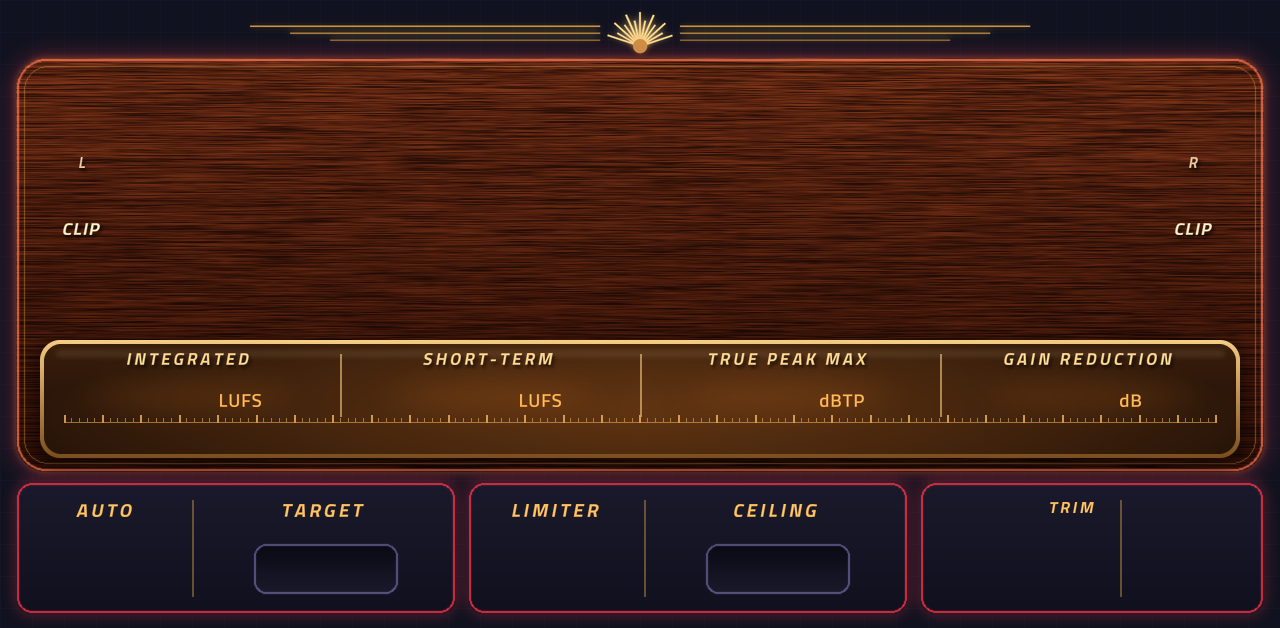
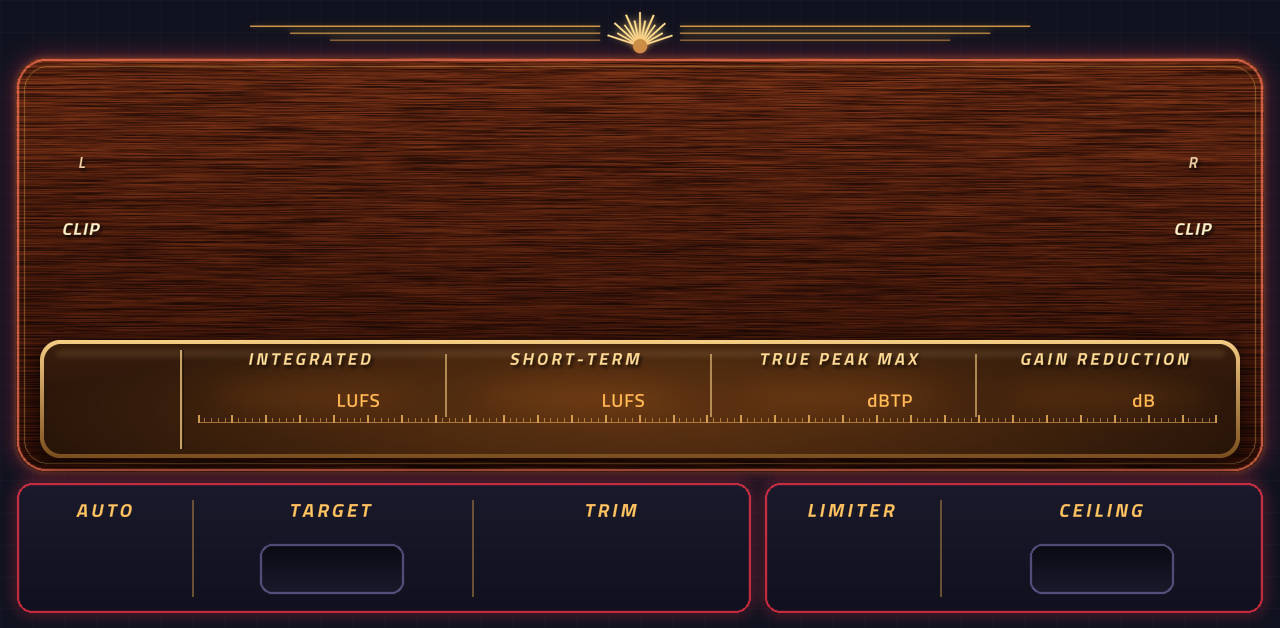
LUFS tab: CLEAR + RUN/HOLD in the readout strip; GAIN card (AUTO, TARGET, TRIM) and OUTPUT card (LIMITER, CEILING)

diff --git a/scripts/make_skin_art.py b/scripts/make_skin_art.py
@@ -255,11 +255,14 @@ def tuning_strip(bg):
     bg.alpha_composite(lamps.filter(ImageFilter.GaussianBlur(18)))
     rules = Image.new('RGBA', bg.size, (0, 0, 0, 0))
     rd = ImageDraw.Draw(rules)
-    for i in range(1, 4):                                   # gold dividers
-        dx = x + w * i / 4.0
+    for i in range(1, 4):                                   # gold dividers between the readouts
+        dx = L.READOUT_X0 + L.READOUT_W * i / 4.0
         rd.line([(dx, y + 14), (dx, y + 76)], fill=L.BRASS_LIGHT + (150,), width=2)
+    # the measurement controls (CLEAR, RUN/HOLD) get their own bay at the left end
+    rd.line([(L.READOUT_X0, y + 10), (L.READOUT_X0, y + h - 10)], fill=L.BRASS_LIGHT + (190,), width=2)
+    rd.line([(L.READOUT_X0 + 3, y + 10), (L.READOUT_X0 + 3, y + h - 10)], fill=(20, 10, 4, 160), width=1)
     # decorative tuning scale
-    t0, t1, ty = x + 24, x + w - 24, L.STRIP_TICKS_Y
+    t0, t1, ty = L.READOUT_X0 + 18, x + w - 24, L.STRIP_TICKS_Y
     rd.line([(t0, ty), (t1, ty)], fill=(240, 170, 80, 150), width=1)
     k = 0
     xx = t0
@@ -306,22 +309,18 @@ def make_lufs_background():
         card(bg, r)
     rules = Image.new('RGBA', bg.size, (0, 0, 0, 0))
     rd = ImageDraw.Draw(rules)
-    for key, (left, right) in L.LUFS_TITLES.items():
+    for key, sections in L.LUFS_SECTIONS.items():
         x, y, w, h = L.LUFS_CARDS[key]
-        rd.line([(x + L.LUFS_SPLIT, y + 18), (x + L.LUFS_SPLIT, y + h - 18)], fill=L.BRASS + (120,), width=2)
-        for title, (sx0, sx1) in ((left, (x, x + L.LUFS_SPLIT)), (right, (x + L.LUFS_SPLIT, x + w))):
+        for i, (title, s0, s1) in enumerate(sections):
+            if i:
+                rd.line([(x + s0, y + 18), (x + s0, y + h - 18)], fill=L.BRASS + (120,), width=2)
             t = text_image(title, 19, L.AMBER_TEXT + (255,), tracking=0.16)
-            bg.alpha_composite(t, (int((sx0 + sx1) / 2.0 - t.size[0] / 2), y + 22))
+            bg.alpha_composite(t, (int(x + (s0 + s1) / 2.0 - t.size[0] / 2), y + 22))
         _, pill, _ = L.lufs_stepper(key)                      # inset value window between the arrows
         px, py, pw, ph = pill
         paste(bg, vgrad(pw, ph, (10, 10, 20), (26, 26, 44)), rr_mask(pw, ph, (0, 0, pw, ph), 12), (px, py))
         bg.alpha_composite(glow_rect(bg.size, pill, 12, (110, 104, 160), 0.5, 2, 200))
-    tx, ty, tw, th = L.LUFS_CARDS['trim']
-    rd.line([(L.CLEAR_BUTTON[0] - 8, ty + 18), (L.CLEAR_BUTTON[0] - 8, ty + th - 18)], fill=L.BRASS + (120,), width=2)
     bg.alpha_composite(rules)
-    vx, vy, vw, vh = L.LUFS_TRIM_VALUE
-    t = text_image('TRIM', 16, L.AMBER_TEXT + (255,), tracking=0.16)
-    bg.alpha_composite(t, (int(vx + vw / 2 - t.size[0] / 2), vy - 22))
     return bg
 
 
@@ -659,11 +658,11 @@ def make_controls():
         pair('pal_%d' % i, L.PALETTE_BUTTONS[i], lab, 'pal:' + name, size=19)
 
     # LUFS tab: ON/OFF toggles, arrow keys (lit while pressed), CLEAR, RUN/HOLD
-    for name, card in (('lufs_auto', 'auto'), ('lufs_lim', 'limiter')):
+    for name, card in (('lufs_auto', 'gain'), ('lufs_lim', 'output')):
         _, _, w, h = L.lufs_toggle(card)
         save(button(w, h, 'ON', 'seg', True, 24), name + '_on.png')
         save(button(w, h, 'OFF', 'seg', False, 24), name + '_off.png')
-    lft, _, rgt = L.lufs_stepper('auto')
+    lft, _, rgt = L.lufs_stepper('gain')
     pair('arrow_l', lft, '<', 'arrow')
     pair('arrow_r', rgt, '>', 'arrow')
     pair('clear', L.CLEAR_BUTTON, 'CLEAR', 'clear', size=21)
@@ -893,8 +892,8 @@ def lufs_preview(lbg, faces, light_i=0, hue=0.0, out='preview-lufs.png', limiter
         g = t.filter(ImageFilter.GaussianBlur(4))
         page.alpha_composite(g, (vx + vw - t.size[0], vy + (vh - t.size[1]) // 2))
         page.alpha_composite(t, (vx + vw - t.size[0], vy + (vh - t.size[1]) // 2))
-    for rect, text, just in ((L.STATUS_RECT, 'AUTO IN RANGE', 'l'), (L.AUTO_GAIN_RECT, '+3.2 dB', 'l'),
-                             (L.MOMENTARY_RECT, 'M -12.8', 'c'), (L.ELAPSED_RECT, '02:34', 'r')):
+    for rect, text, just in ((L.STATUS_RECT, 'AUTO IN RANGE', 'r'), (L.AUTO_GAIN_RECT, '+3.2 dB', 'r'),
+                             (L.MOMENTARY_RECT, 'M -12.8', 'c'), (L.ELAPSED_RECT, '02:34', 'l')):
         t = text_image(text, 16, (246, 196, 120, 255), slant=0.0, semi=True)
         x, y, w, h = rect
         tx = x if just == 'l' else (x + (w - t.size[0]) // 2 if just == 'c' else x + w - t.size[0])
@@ -902,9 +901,9 @@ def lufs_preview(lbg, faces, light_i=0, hue=0.0, out='preview-lufs.png', limiter
     def btn(name, rect, on):
         img = Image.open(os.path.join(OUT, name + ('_on.png' if on else '_off.png')))
         page.alpha_composite(img, rect[:2])
-    btn('lufs_auto', L.lufs_toggle('auto'), True)
-    btn('lufs_lim', L.lufs_toggle('limiter'), limiter)
-    for card, val in (('auto', '-14.0 LUFS'), ('limiter', '-1.0 dBTP')):
+    btn('lufs_auto', L.lufs_toggle('gain'), True)
+    btn('lufs_lim', L.lufs_toggle('output'), limiter)
+    for card, val in (('gain', '-14.0 LUFS'), ('output', '-1.0 dBTP')):
         lft, pill, rgt = L.lufs_stepper(card)
         btn('arrow_l', lft, False)
         btn('arrow_r', rgt, False)

diff --git a/scripts/skin_layout.py b/scripts/skin_layout.py
@@ -448,35 +448,45 @@ def lufs_lamp_hit(i):
 
 
 DIAL_STRIP = (40, 340, 1200, 118)              # the tuning-dial readout strip
+# The strip's left end holds the measurement controls (CLEAR, RUN/HOLD); the readouts fill the rest.
+STRIP_CTRL_W = 140
+READOUT_X0 = DIAL_STRIP[0] + STRIP_CTRL_W
+READOUT_W = DIAL_STRIP[0] + DIAL_STRIP[2] - READOUT_X0
+CLEAR_BUTTON = (DIAL_STRIP[0] + 12, DIAL_STRIP[1] + 10, 116, 46)
+HOLD_BUTTON = (DIAL_STRIP[0] + 12, DIAL_STRIP[1] + 62, 116, 46)
 READOUT_TITLES = ['INTEGRATED', 'SHORT-TERM', 'TRUE PEAK MAX', 'GAIN REDUCTION']
 READOUT_UNITS = ['LUFS', 'LUFS', 'dBTP', 'dB']
 READOUT_PARAMS = ['Integrated', 'Short-term', 'True Peak Max', 'Gain Reduction']
 
 
 def readout_centre(i):
-    return DIAL_STRIP[0] + DIAL_STRIP[2] * (2 * i + 1) / 8.0
+    return READOUT_X0 + READOUT_W * (2 * i + 1) / 8.0
 
 
 def readout_value_rect(i):
     """Right-justified number; the unit is printed just right of it on the background."""
     cx = readout_centre(i)
-    return (int(cx - 152), DIAL_STRIP[1] + 20, 172, 66)
+    return (int(cx - 148), DIAL_STRIP[1] + 20, 160, 66)
 
 
-READOUT_UNIT_X = 30                            # unit starts this far right of the column centre
+READOUT_UNIT_X = 26                            # unit starts this far right of the column centre
 STRIP_TICKS_Y = DIAL_STRIP[1] + 82             # decorative tuning scale
-STATUS_ROW_Y = DIAL_STRIP[1] + 89              # small Labels: AUTO status + gain | momentary | elapsed
-STATUS_RECT = (DIAL_STRIP[0] + 18, STATUS_ROW_Y, 196, 28)
-AUTO_GAIN_RECT = (DIAL_STRIP[0] + 218, STATUS_ROW_Y, 120, 28)
-MOMENTARY_RECT = (DIAL_STRIP[0] + 500, STATUS_ROW_Y, 200, 28)
-ELAPSED_RECT = (DIAL_STRIP[0] + DIAL_STRIP[2] - 18 - 220, STATUS_ROW_Y, 220, 28)
+STATUS_ROW_Y = DIAL_STRIP[1] + 89              # small Labels: elapsed | momentary | AUTO status + gain
+ELAPSED_RECT = (READOUT_X0 + 16, STATUS_ROW_Y, 120, 28)
+MOMENTARY_RECT = (int(READOUT_X0 + READOUT_W / 2 - 100), STATUS_ROW_Y, 200, 28)
+AUTO_GAIN_RECT = (DIAL_STRIP[0] + DIAL_STRIP[2] - 18 - 96, STATUS_ROW_Y, 96, 28)
+STATUS_RECT = (AUTO_GAIN_RECT[0] - 250, STATUS_ROW_Y, 244, 28)
 
+# Bottom cards: GAIN (AUTO | TARGET | TRIM: everything that sets the level) and OUTPUT
+# (LIMITER | CEILING: protection after the gain). Sections are (title, x0, x1) inside the card.
 LUFS_CARDS = {                                 # x, y, w, h
-    'auto':    (16, 482, 440, 132),
-    'limiter': (468, 482, 440, 132),
-    'trim':    (920, 482, 344, 132),
+    'gain':   (16, 482, 736, 132),
+    'output': (764, 482, 500, 132),
 }
-LUFS_SPLIT = 176                               # divider inside the auto / limiter cards
+LUFS_SECTIONS = {
+    'gain':   [('AUTO', 0, 176), ('TARGET', 176, 456), ('TRIM', 456, 736)],
+    'output': [('LIMITER', 0, 176), ('CEILING', 176, 500)],
+}
 
 
 def lufs_toggle(card):
@@ -485,14 +495,13 @@ def lufs_toggle(card):
 
 
 def lufs_stepper(card):
-    """(left arrow, value pill, right arrow) rects for TARGET / CEILING."""
+    """(left arrow, value pill, right arrow) rects, centred in the card's second section."""
     x, y, w, h = LUFS_CARDS[card]
-    return ((x + 190, y + 62, 44, 50), (x + 238, y + 62, 144, 50), (x + 386, y + 62, 44, 50))
+    _, s0, s1 = LUFS_SECTIONS[card][1]
+    left = int(x + (s0 + s1) / 2.0 - 120)
+    return ((left, y + 62, 44, 50), (left + 48, y + 62, 144, 50), (left + 196, y + 62, 44, 50))
 
 
-LUFS_TITLES = {'auto': ('AUTO', 'TARGET'), 'limiter': ('LIMITER', 'CEILING')}
-_tx, _ty = LUFS_CARDS['trim'][0], LUFS_CARDS['trim'][1]
-LUFS_KNOB = (_tx + 20, _ty + 28, KNOB_SIZE, KNOB_SIZE)
-LUFS_TRIM_VALUE = (_tx + 100, _ty + 42, 104, 48)
-CLEAR_BUTTON = (_tx + 208, _ty + 12, 124, 52)
-HOLD_BUTTON = (_tx + 208, _ty + 70, 124, 52)
+_gx, _gy = LUFS_CARDS['gain'][0], LUFS_CARDS['gain'][1]
+LUFS_KNOB = (_gx + 480, _gy + 46, KNOB_SIZE, KNOB_SIZE)
+LUFS_TRIM_VALUE = (_gx + 566, _gy + 60, 150, 48)

diff --git a/scripts/gen_skins.py b/scripts/gen_skins.py
@@ -15,7 +15,8 @@ LUFS tab:
   * the same dials at 0.8 scale (shared needle and glow strips; caption-free faces), clip lamps
   * smoked-glass tuning strip: INTEGRATED | SHORT-TERM | TRUE PEAK MAX | GAIN REDUCTION
     Labels, plus AUTO status / auto gain / momentary / elapsed
-  * AUTO + TARGET < > | LIMITER + CEILING < > | TRIM knob, CLEAR, RUN/HOLD
+    (CLEAR and RUN/HOLD sit at the strip's left end: they control the measurement)
+  * GAIN card: AUTO | TARGET < > | TRIM knob;  OUTPUT card: LIMITER | CEILING < >
 SETUP tab: CALIBRATION | CLIP LEVEL, then LIGHT (STATIC | REACT + palette | CYCLE + rate).
 The plugin is stereo only; the retired mono parameters have no widgets.
 """
@@ -182,14 +183,18 @@ def main():
     # tuning strip readouts
     for i, param in enumerate(L.READOUT_PARAMS):
         lufs.append(label('readout %s' % param.lower(), param, L.readout_value_rect(i), L.label_px(40), L.READOUT_AMBER, 'right', 'Bold'))
-    lufs.append(label('auto state', 'Auto State', L.STATUS_RECT, L.label_px(16), L.STATUS_AMBER, 'left'))
-    lufs.append(label('auto gain', 'Auto Gain', L.AUTO_GAIN_RECT, L.label_px(16), L.STATUS_AMBER, 'left'))
+    lufs.append(label('auto state', 'Auto State', L.STATUS_RECT, L.label_px(16), L.STATUS_AMBER, 'right'))
+    lufs.append(label('auto gain', 'Auto Gain', L.AUTO_GAIN_RECT, L.label_px(16), L.STATUS_AMBER, 'right'))
     lufs.append(label('momentary', 'Momentary', L.MOMENTARY_RECT, L.label_px(16), L.STATUS_AMBER, 'horizontallyCentred'))
-    lufs.append(label('elapsed', 'Elapsed', L.ELAPSED_RECT, L.label_px(16), L.STATUS_AMBER, 'right'))
+    lufs.append(label('elapsed', 'Elapsed', L.ELAPSED_RECT, L.label_px(16), L.STATUS_AMBER, 'left'))
+    # measurement controls, at the left end of the readout strip
+    lufs.append(button('clear', 'clear', 1, 1, P('Clear'), L.CLEAR_BUTTON))
+    lufs.append(button('run hold', 'hold', 1, 1, P('Measure'), L.HOLD_BUTTON))
     # controls
-    lufs.append(button('lufs auto', 'lufs_auto', 1, 1, P('LUFS Auto'), L.lufs_toggle('auto')))
-    lufs.append(button('limiter', 'lufs_lim', 1, 1, P('Limiter'), L.lufs_toggle('limiter')))
-    for card, value, down, up in (('auto', 'Target', 'Target Down', 'Target Up'), ('limiter', 'Ceiling', 'Ceiling Down', 'Ceiling Up')):
+    # GAIN card (AUTO | TARGET | TRIM) and OUTPUT card (LIMITER | CEILING)
+    lufs.append(button('lufs auto', 'lufs_auto', 1, 1, P('LUFS Auto'), L.lufs_toggle('gain')))
+    lufs.append(button('limiter', 'lufs_lim', 1, 1, P('Limiter'), L.lufs_toggle('output')))
+    for card, value, down, up in (('gain', 'Target', 'Target Down', 'Target Up'), ('output', 'Ceiling', 'Ceiling Down', 'Ceiling Up')):
         lft, pill, rgt = L.lufs_stepper(card)
         lufs.append(button(down.lower(), 'arrow_l', 1, 1, P(down), lft))
         lufs.append(label(value.lower() + ' value', value, pill, L.label_px(24), L.CREAM, 'horizontallyCentred'))
@@ -198,8 +203,6 @@ def main():
                                                  'numFrames': 127, 'invert': False, 'dragOrientation': 'Vertical',
                                                  'handleName': P('Trim')}, L.LUFS_KNOB, show='Hide', focus='Yes'))
     lufs.append(label('lufs trim value', 'Trim', L.LUFS_TRIM_VALUE, L.label_px(26), L.CREAM, 'horizontallyCentred'))
-    lufs.append(button('clear', 'clear', 1, 1, P('Clear'), L.CLEAR_BUTTON))
-    lufs.append(button('run hold', 'hold', 1, 1, P('Measure'), L.HOLD_BUTTON))
 
     def make_tab(name, key, bgimg, children):
         bg = {'version': 1, 'colour': L.argb(L.NAVY), 'image': bgimg}

diff --git a/docs/CONTROLS.md b/docs/CONTROLS.md
@@ -20,6 +20,8 @@ Signal chain: **in → AUTO gain + TRIM (one gain for L and R) → LIMITER → o
 
 Loudness per ITU-R BS.1770 / EBU R 128, measured on the **output**. The scale under the numbers is decoration; the numbers are the readings.
 
+Layout: the readout strip holds the **measurement** controls at its left end (CLEAR, RUN/HOLD: they only affect the readings). Below it, the **GAIN** card (AUTO, TARGET, TRIM: everything that sets the level) and the **OUTPUT** card (LIMITER, CEILING: protection after the gain).
+
 | Readout | What it shows |
 |---|---|
 | **INTEGRATED** (LUFS) | Programme loudness since CLEAR, gated (−70 LUFS absolute, then 10 LU below the programme), so silence and quiet gaps do not pull it down. `--.-` until 0.4 s of programme has been measured. |
